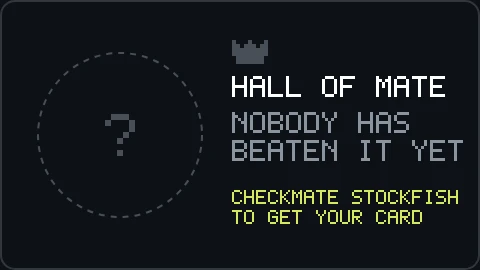
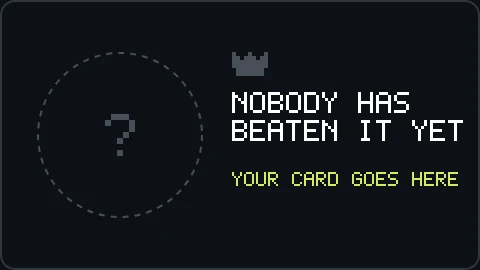
Chess section: back to the header's style
- Dark board in the GitHub-dark palette with header HUD: corner brackets,
  edge ticks, a tracking frame with x/y coordinates on the last move,
  pink check glow; Cburnett pieces recoloured for the dark board.
- Section titles rendered as images in the header's DIN Condensed + Menlo
  (static, chess/titles.mjs), instead of plain GitHub headings.
- No more bordered tables: boards float left with content beside them, both
  rows share one width so the layout lines up.

Changed region(s): [[0.4688, 0.1481, 0.9688, 0.5926], [0.4688, 0.6222, 0.9688, 0.8296]]

diff --git a/README.md b/README.md
@@ -14,30 +14,31 @@
 </picture>
 
 <!-- chess:start -->
-<table align="center">
-<tr>
-<td align="center"><img src="chess/board-1-8-f2f598.webp" width="400" alt="Chess board, game 1. Position (FEN): 1nbqkbnr/rpp2ppp/8/4p3/3p4/8/PPPPPPPP/1RBQKBNR w Kk - 0 5"></td>
-<td valign="top" width="300">
-<h3>YOUR MOVE.</h3>
-<sub>you play white vs stockfish · click a move, then <b>Create</b></sub><br>
-<sub><a href="https://github.com/2md55nmxkw-arch">@2md55nmxkw-arch</a> <code>Nxa7</code> <img src="chess/icons/mistake.png" width="14" height="14" alt="mistake" title="? mistake"> mistake · stockfish <code>Rxa7</code> <img src="chess/icons/best.png" width="14" height="14" alt="best" title="★ best move"> best</sub><br>
-<br>
+<img src="chess/board-1-8-f70e19.webp" width="400" align="left" alt="Chess board, game 1. Position (FEN): 1nbqkbnr/rpp2ppp/8/4p3/3p4/8/PPPPPPPP/1RBQKBNR w Kk - 0 5">
+
+<img src="chess/titles/your-move.png" width="200" height="68" alt="YOUR MOVE. You play white vs stockfish: click a move, then Create">
+
+<sub><a href="https://github.com/2md55nmxkw-arch">@2md55nmxkw-arch</a> <code>Nxa7</code> <img src="chess/icons/mistake.png" width="14" height="14" alt="mistake" title="? mistake"> mistake · stockfish <code>Rxa7</code> <img src="chess/icons/best.png" width="14" height="14" alt="best" title="★ best move"> best</sub>
+
 ♖&nbsp; <a href="https://github.com/2md55nmxkw-arch/2md55nmxkw-arch/issues/new?title=chess%7Cmove%7Cb1a1&body=Just+press+**Create**%2C+stockfish+answers+and+the+board+on+the+profile+updates+in+about+a+minute.%0A%0APlease+don%27t+change+the+title.">Ra1</a><br>
 ♘&nbsp; <a href="https://github.com/2md55nmxkw-arch/2md55nmxkw-arch/issues/new?title=chess%7Cmove%7Cg1f3&body=Just+press+**Create**%2C+stockfish+answers+and+the+board+on+the+profile+updates+in+about+a+minute.%0A%0APlease+don%27t+change+the+title.">Nf3</a> <a href="https://github.com/2md55nmxkw-arch/2md55nmxkw-arch/issues/new?title=chess%7Cmove%7Cg1h3&body=Just+press+**Create**%2C+stockfish+answers+and+the+board+on+the+profile+updates+in+about+a+minute.%0A%0APlease+don%27t+change+the+title.">Nh3</a><br>
-♙&nbsp; <a href="https://github.com/2md55nmxkw-arch/2md55nmxkw-arch/issues/new?title=chess%7Cmove%7Ca2a3&body=Just+press+**Create**%2C+stockfish+answers+and+the+board+on+the+profile+updates+in+about+a+minute.%0A%0APlease+don%27t+change+the+title.">a3</a> <a href="https://github.com/2md55nmxkw-arch/2md55nmxkw-arch/issues/new?title=chess%7Cmove%7Ca2a4&body=Just+press+**Create**%2C+stockfish+answers+and+the+board+on+the+profile+updates+in+about+a+minute.%0A%0APlease+don%27t+change+the+title.">a4</a> <a href="https://github.com/2md55nmxkw-arch/2md55nmxkw-arch/issues/new?title=chess%7Cmove%7Cb2b3&body=Just+press+**Create**%2C+stockfish+answers+and+the+board+on+the+profile+updates+in+about+a+minute.%0A%0APlease+don%27t+change+the+title.">b3</a> <a href="https://github.com/2md55nmxkw-arch/2md55nmxkw-arch/issues/new?title=chess%7Cmove%7Cb2b4&body=Just+press+**Create**%2C+stockfish+answers+and+the+board+on+the+profile+updates+in+about+a+minute.%0A%0APlease+don%27t+change+the+title.">b4</a> <a href="https://github.com/2md55nmxkw-arch/2md55nmxkw-arch/issues/new?title=chess%7Cmove%7Cc2c3&body=Just+press+**Create**%2C+stockfish+answers+and+the+board+on+the+profile+updates+in+about+a+minute.%0A%0APlease+don%27t+change+the+title.">c3</a> <a href="https://github.com/2md55nmxkw-arch/2md55nmxkw-arch/issues/new?title=chess%7Cmove%7Cc2c4&body=Just+press+**Create**%2C+stockfish+answers+and+the+board+on+the+profile+updates+in+about+a+minute.%0A%0APlease+don%27t+change+the+title.">c4</a> <a href="https://github.com/2md55nmxkw-arch/2md55nmxkw-arch/issues/new?title=chess%7Cmove%7Cd2d3&body=Just+press+**Create**%2C+stockfish+answers+and+the+board+on+the+profile+updates+in+about+a+minute.%0A%0APlease+don%27t+change+the+title.">d3</a> <a href="https://github.com/2md55nmxkw-arch/2md55nmxkw-arch/issues/new?title=chess%7Cmove%7Ce2e3&body=Just+press+**Create**%2C+stockfish+answers+and+the+board+on+the+profile+updates+in+about+a+minute.%0A%0APlease+don%27t+change+the+title.">e3</a> <a href="https://github.com/2md55nmxkw-arch/2md55nmxkw-arch/issues/new?title=chess%7Cmove%7Ce2e4&body=Just+press+**Create**%2C+stockfish+answers+and+the+board+on+the+profile+updates+in+about+a+minute.%0A%0APlease+don%27t+change+the+title.">e4</a> <a href="https://github.com/2md55nmxkw-arch/2md55nmxkw-arch/issues/new?title=chess%7Cmove%7Cf2f3&body=Just+press+**Create**%2C+stockfish+answers+and+the+board+on+the+profile+updates+in+about+a+minute.%0A%0APlease+don%27t+change+the+title.">f3</a> <a href="https://github.com/2md55nmxkw-arch/2md55nmxkw-arch/issues/new?title=chess%7Cmove%7Cf2f4&body=Just+press+**Create**%2C+stockfish+answers+and+the+board+on+the+profile+updates+in+about+a+minute.%0A%0APlease+don%27t+change+the+title.">f4</a> <a href="https://github.com/2md55nmxkw-arch/2md55nmxkw-arch/issues/new?title=chess%7Cmove%7Cg2g3&body=Just+press+**Create**%2C+stockfish+answers+and+the+board+on+the+profile+updates+in+about+a+minute.%0A%0APlease+don%27t+change+the+title.">g3</a> <a href="https://github.com/2md55nmxkw-arch/2md55nmxkw-arch/issues/new?title=chess%7Cmove%7Cg2g4&body=Just+press+**Create**%2C+stockfish+answers+and+the+board+on+the+profile+updates+in+about+a+minute.%0A%0APlease+don%27t+change+the+title.">g4</a> <a href="https://github.com/2md55nmxkw-arch/2md55nmxkw-arch/issues/new?title=chess%7Cmove%7Ch2h3&body=Just+press+**Create**%2C+stockfish+answers+and+the+board+on+the+profile+updates+in+about+a+minute.%0A%0APlease+don%27t+change+the+title.">h3</a> <a href="https://github.com/2md55nmxkw-arch/2md55nmxkw-arch/issues/new?title=chess%7Cmove%7Ch2h4&body=Just+press+**Create**%2C+stockfish+answers+and+the+board+on+the+profile+updates+in+about+a+minute.%0A%0APlease+don%27t+change+the+title.">h4</a><br>
-<br><a href="https://github.com/2md55nmxkw-arch" title="@2md55nmxkw-arch"><img src="https://github.com/2md55nmxkw-arch.png?size=64" width="26" height="26" alt="@2md55nmxkw-arch"></a>
-</td>
-</tr>
-<tr>
-<td align="center" valign="top">
-<img src="chess/activity-2026-11-10.webp" width="300" alt="Last 64 days of GitHub activity as a chessboard: 52 contributions"><br>
-<sub>last 64 days · every commit is a move</sub>
-</td>
-<td align="center" valign="top">
-<img src="chess/hall/empty.webp" width="300" alt="Hall of mate: nobody has checkmated stockfish yet">
-</td>
-</tr>
-</table>
+♙&nbsp; <a href="https://github.com/2md55nmxkw-arch/2md55nmxkw-arch/issues/new?title=chess%7Cmove%7Ca2a3&body=Just+press+**Create**%2C+stockfish+answers+and+the+board+on+the+profile+updates+in+about+a+minute.%0A%0APlease+don%27t+change+the+title.">a3</a> <a href="https://github.com/2md55nmxkw-arch/2md55nmxkw-arch/issues/new?title=chess%7Cmove%7Ca2a4&body=Just+press+**Create**%2C+stockfish+answers+and+the+board+on+the+profile+updates+in+about+a+minute.%0A%0APlease+don%27t+change+the+title.">a4</a> <a href="https://github.com/2md55nmxkw-arch/2md55nmxkw-arch/issues/new?title=chess%7Cmove%7Cb2b3&body=Just+press+**Create**%2C+stockfish+answers+and+the+board+on+the+profile+updates+in+about+a+minute.%0A%0APlease+don%27t+change+the+title.">b3</a> <a href="https://github.com/2md55nmxkw-arch/2md55nmxkw-arch/issues/new?title=chess%7Cmove%7Cb2b4&body=Just+press+**Create**%2C+stockfish+answers+and+the+board+on+the+profile+updates+in+about+a+minute.%0A%0APlease+don%27t+change+the+title.">b4</a> <a href="https://github.com/2md55nmxkw-arch/2md55nmxkw-arch/issues/new?title=chess%7Cmove%7Cc2c3&body=Just+press+**Create**%2C+stockfish+answers+and+the+board+on+the+profile+updates+in+about+a+minute.%0A%0APlease+don%27t+change+the+title.">c3</a> <a href="https://github.com/2md55nmxkw-arch/2md55nmxkw-arch/issues/new?title=chess%7Cmove%7Cc2c4&body=Just+press+**Create**%2C+stockfish+answers+and+the+board+on+the+profile+updates+in+about+a+minute.%0A%0APlease+don%27t+change+the+title.">c4</a> <a href="https://github.com/2md55nmxkw-arch/2md55nmxkw-arch/issues/new?title=chess%7Cmove%7Cd2d3&body=Just+press+**Create**%2C+stockfish+answers+and+the+board+on+the+profile+updates+in+about+a+minute.%0A%0APlease+don%27t+change+the+title.">d3</a> <a href="https://github.com/2md55nmxkw-arch/2md55nmxkw-arch/issues/new?title=chess%7Cmove%7Ce2e3&body=Just+press+**Create**%2C+stockfish+answers+and+the+board+on+the+profile+updates+in+about+a+minute.%0A%0APlease+don%27t+change+the+title.">e3</a> <a href="https://github.com/2md55nmxkw-arch/2md55nmxkw-arch/issues/new?title=chess%7Cmove%7Ce2e4&body=Just+press+**Create**%2C+stockfish+answers+and+the+board+on+the+profile+updates+in+about+a+minute.%0A%0APlease+don%27t+change+the+title.">e4</a> <a href="https://github.com/2md55nmxkw-arch/2md55nmxkw-arch/issues/new?title=chess%7Cmove%7Cf2f3&body=Just+press+**Create**%2C+stockfish+answers+and+the+board+on+the+profile+updates+in+about+a+minute.%0A%0APlease+don%27t+change+the+title.">f3</a> <a href="https://github.com/2md55nmxkw-arch/2md55nmxkw-arch/issues/new?title=chess%7Cmove%7Cf2f4&body=Just+press+**Create**%2C+stockfish+answers+and+the+board+on+the+profile+updates+in+about+a+minute.%0A%0APlease+don%27t+change+the+title.">f4</a> <a href="https://github.com/2md55nmxkw-arch/2md55nmxkw-arch/issues/new?title=chess%7Cmove%7Cg2g3&body=Just+press+**Create**%2C+stockfish+answers+and+the+board+on+the+profile+updates+in+about+a+minute.%0A%0APlease+don%27t+change+the+title.">g3</a> <a href="https://github.com/2md55nmxkw-arch/2md55nmxkw-arch/issues/new?title=chess%7Cmove%7Cg2g4&body=Just+press+**Create**%2C+stockfish+answers+and+the+board+on+the+profile+updates+in+about+a+minute.%0A%0APlease+don%27t+change+the+title.">g4</a> <a href="https://github.com/2md55nmxkw-arch/2md55nmxkw-arch/issues/new?title=chess%7Cmove%7Ch2h3&body=Just+press+**Create**%2C+stockfish+answers+and+the+board+on+the+profile+updates+in+about+a+minute.%0A%0APlease+don%27t+change+the+title.">h3</a> <a href="https://github.com/2md55nmxkw-arch/2md55nmxkw-arch/issues/new?title=chess%7Cmove%7Ch2h4&body=Just+press+**Create**%2C+stockfish+answers+and+the+board+on+the+profile+updates+in+about+a+minute.%0A%0APlease+don%27t+change+the+title.">h4</a>
+
+<a href="https://github.com/2md55nmxkw-arch" title="@2md55nmxkw-arch"><img src="https://github.com/2md55nmxkw-arch.png?size=64" width="26" height="26" alt="@2md55nmxkw-arch"></a>
+
+<br clear="left">
+
+<img src="chess/activity-2026-11-10.webp" width="400" align="left" alt="Last 64 days of GitHub activity as a chessboard: 52 contributions">
+
+<img src="chess/titles/every-commit.png" width="264" height="68" alt="EVERY COMMIT IS A MOVE.">
+
+<sub>52 contributions · today is the highlighted square</sub>
+
+<img src="chess/titles/hall-of-mate.png" width="156" height="68" alt="HALL OF MATE. Checkmate stockfish to get your card here">
+
+<img src="chess/hall/empty.webp" width="340" alt="Nobody has checkmated stockfish yet">
+
+<br clear="left">
 
 <div align="center"><details><summary><sub>history</sub></summary>
 
